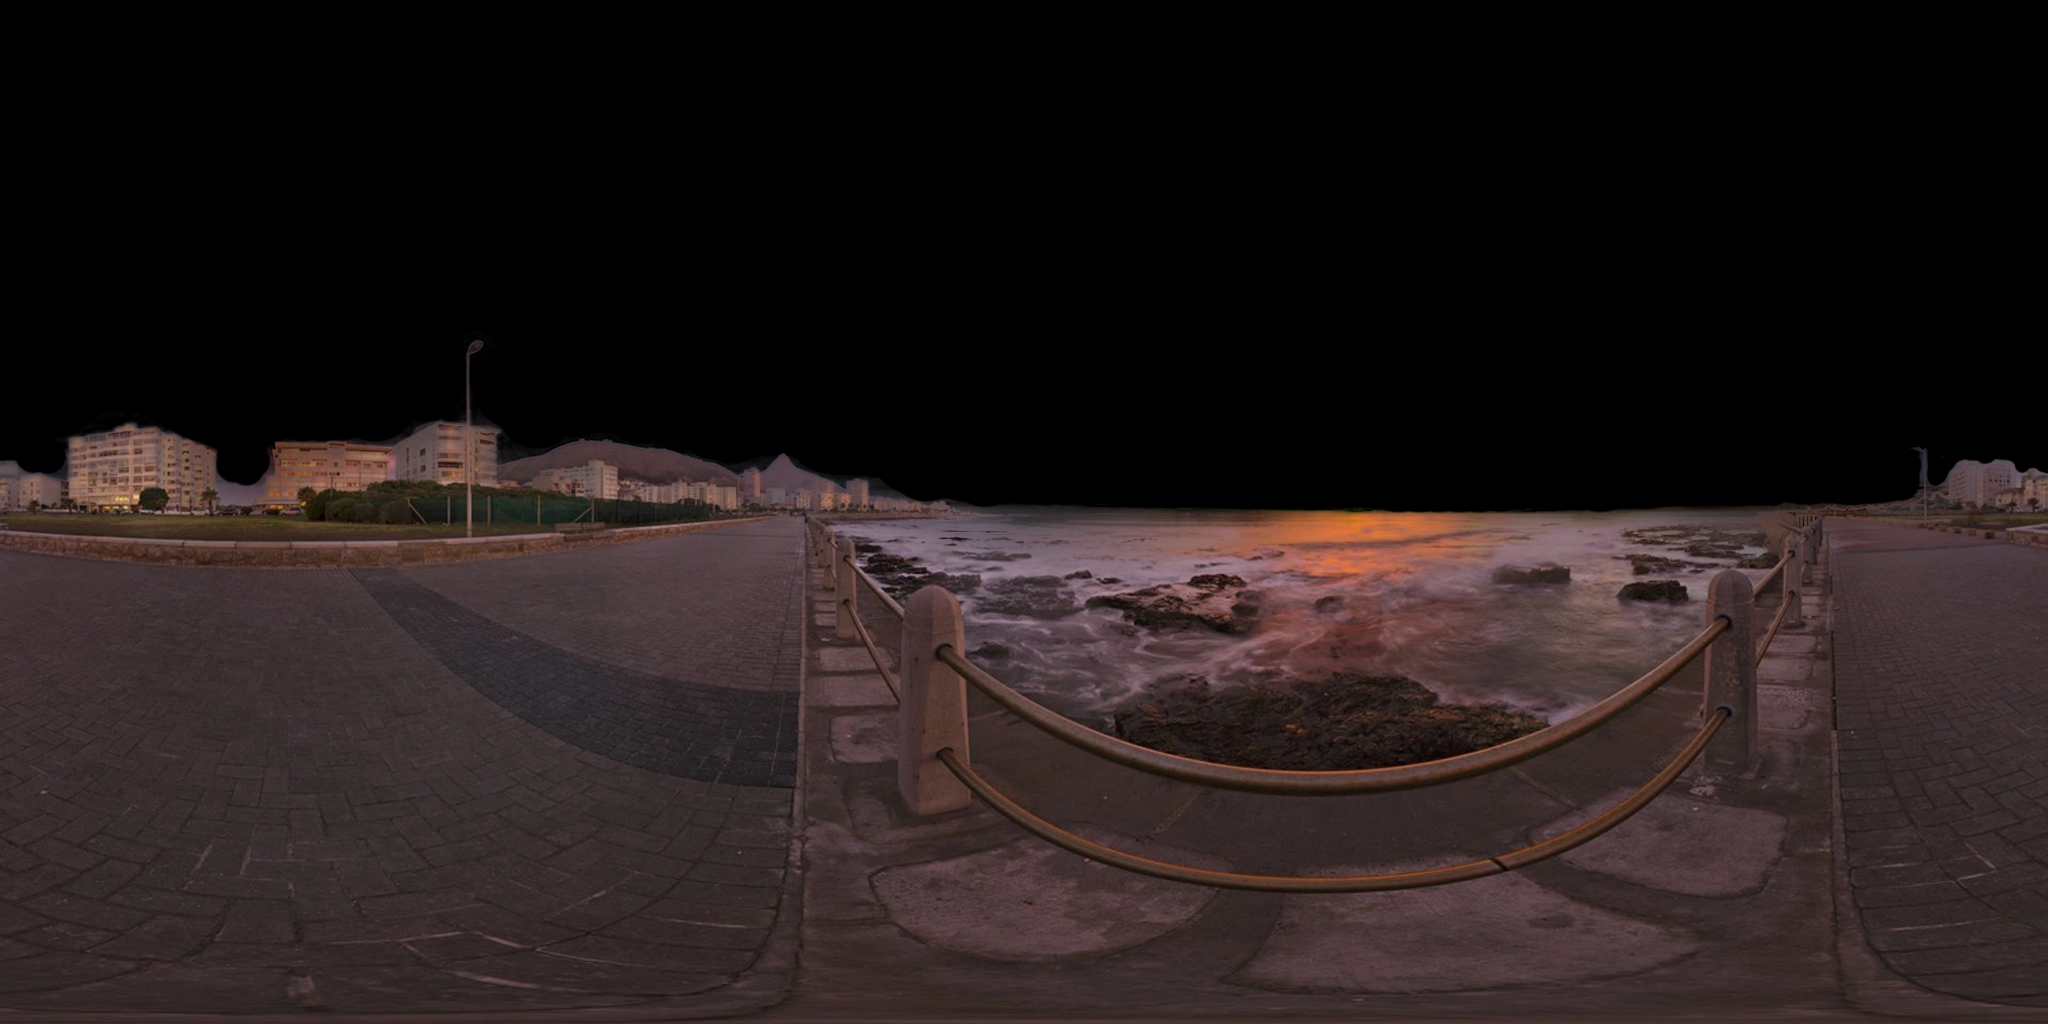
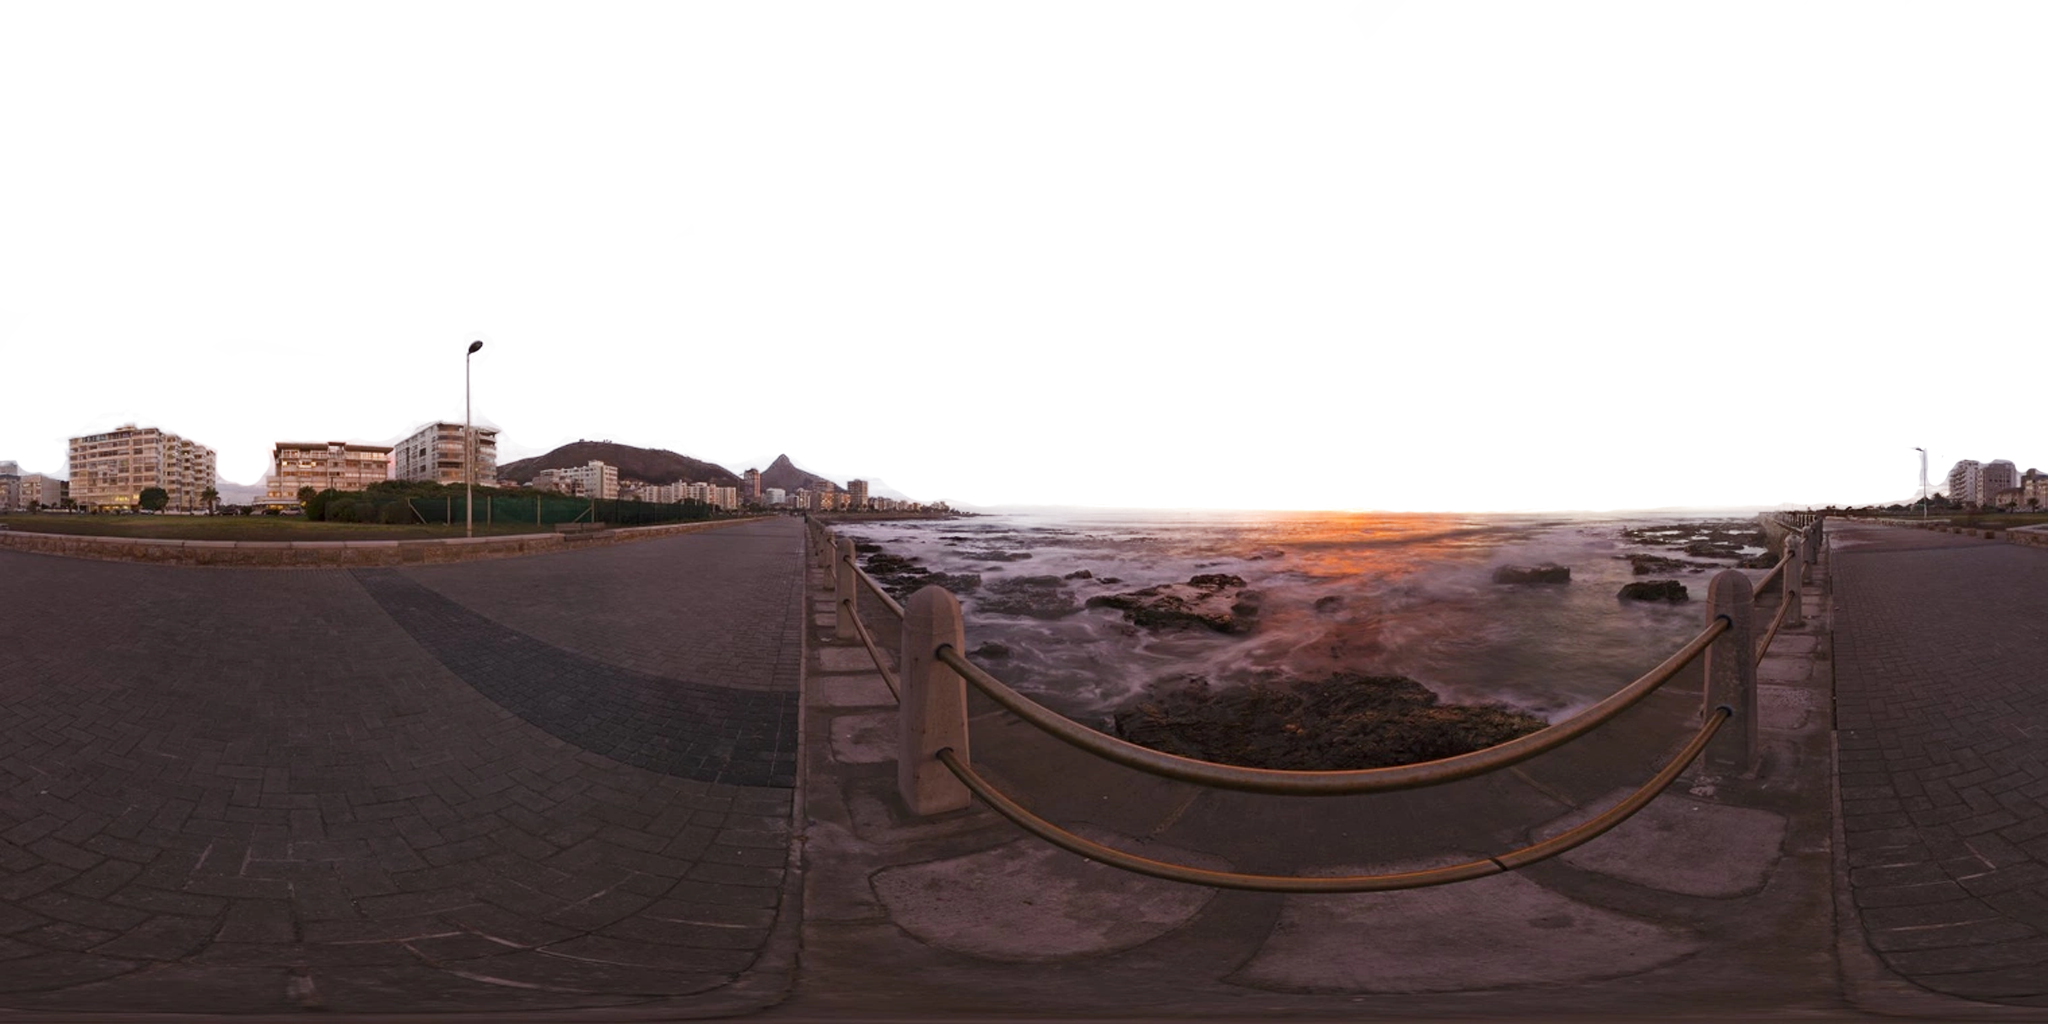
Docs, example vars, and minor cleanup
Clarify README (mention elevation/timezone in setup and note star distortion in notification image). Remove an unused Image.open call from generate_horizon_img in functions.py. Update variables_example.py: add optional comment, adjust default notification windows to full-year. Replace horizon and notification example images.

diff --git a/variables_example.py b/variables_example.py
@@ -4,6 +4,7 @@ longitude = "13.4050"               # Your longitude
 elevation = "38"                    # Your altitude in meters above sea level
 timezone = "Europe/Berlin"          # The timezone of where you will be observing from (IANA Time Zone Database)
 
+# Optional changes:
 kp_treshold = 6                     # If kp exceeds this value, you will be notified
 total_sunspot_area_treshold = 1500  # If the total area (measured in MH) of all sunspots exceeds this value, you will be notified
 comet_mag_treshold = 7              # Any comet with a magnitude lower than this number will notify you
@@ -12,12 +13,12 @@ include_observation_horizon = False # Leave this False if you will not be adding
 horizon_north_offset = 0            # How many degrees offset is your image from true north (-360 to +360)
 
 # ((from month, to month), should this event notify you? (True/False))
-# E.g. ("Jan", "Dec") will notify you the whole year
+# E.g. ("Jan", "Dec") will notify you the whole year, ("Apr", "Sep") will notify you from april to september
 notification_info = {
-    "northern_lights":  (("Sep", "Apr"), True),
+    "northern_lights":  (("Jan", "Dec"), True),
     "transit":          (("Jan", "Dec"), True),
-    "sunspot":          (("Mar", "Sep"), True),
-    "comet":            (("Aug", "Apr"), True)
+    "sunspot":          (("Jan", "Dec"), True),
+    "comet":            (("Jan", "Dec"), True)
 }
 
 """ Prints all available timezones

diff --git a/functions.py b/functions.py
@@ -114,8 +114,6 @@ def generate_horizon_img(az:float, alt:float, name:str, time:datetime):
     az = az%360
     coords = degrees_to_pixels(az, alt)
 
-    horizon_img_draw = Image.open("obs_horizon/horizon_example.png")
-
     generate_starmap(float(latitude), float(longitude), time, name)
 
     horizon = Image.open("obs_horizon/horizon.png").convert("RGBA")

diff --git a/README.md b/README.md
@@ -28,7 +28,7 @@ In order for you to receive notifications, you will need the [ntfy.sh](https://n
 Create a new topic in the app with a cryptic name that people won't guess. I used a password generator.
 
 ## Final setup
-Finally, fill in the variables (latitude/longitude, ntfy topic, notification thresholds) in [variables_example.py](variables_example.py) and rename it to variables.py.
+Finally, fill in the variables (latitude/longitude, elevation, ntfy topic, timezone) in [variables_example.py](variables_example.py) and rename it to variables.py.
 
 # Optional
 
@@ -55,6 +55,6 @@ Find the real azimuth for the landmark by standing exactly where you took the ph
 
 Now subtract the two and you're left with the horizon_north_offset variable that you set in [variables_example.py](variables_example.py).
 
-This is an example of an image you might receive with a notification showing where the comet will be in your sky.
+This is an example of an image you might receive with a notification showing where the comet will be in your sky. The stars look a little distorted along the top and bottom of the frame, but they should be accurate. 
 
 ![Notification example](readme_imgs/comet_notification_example.png)